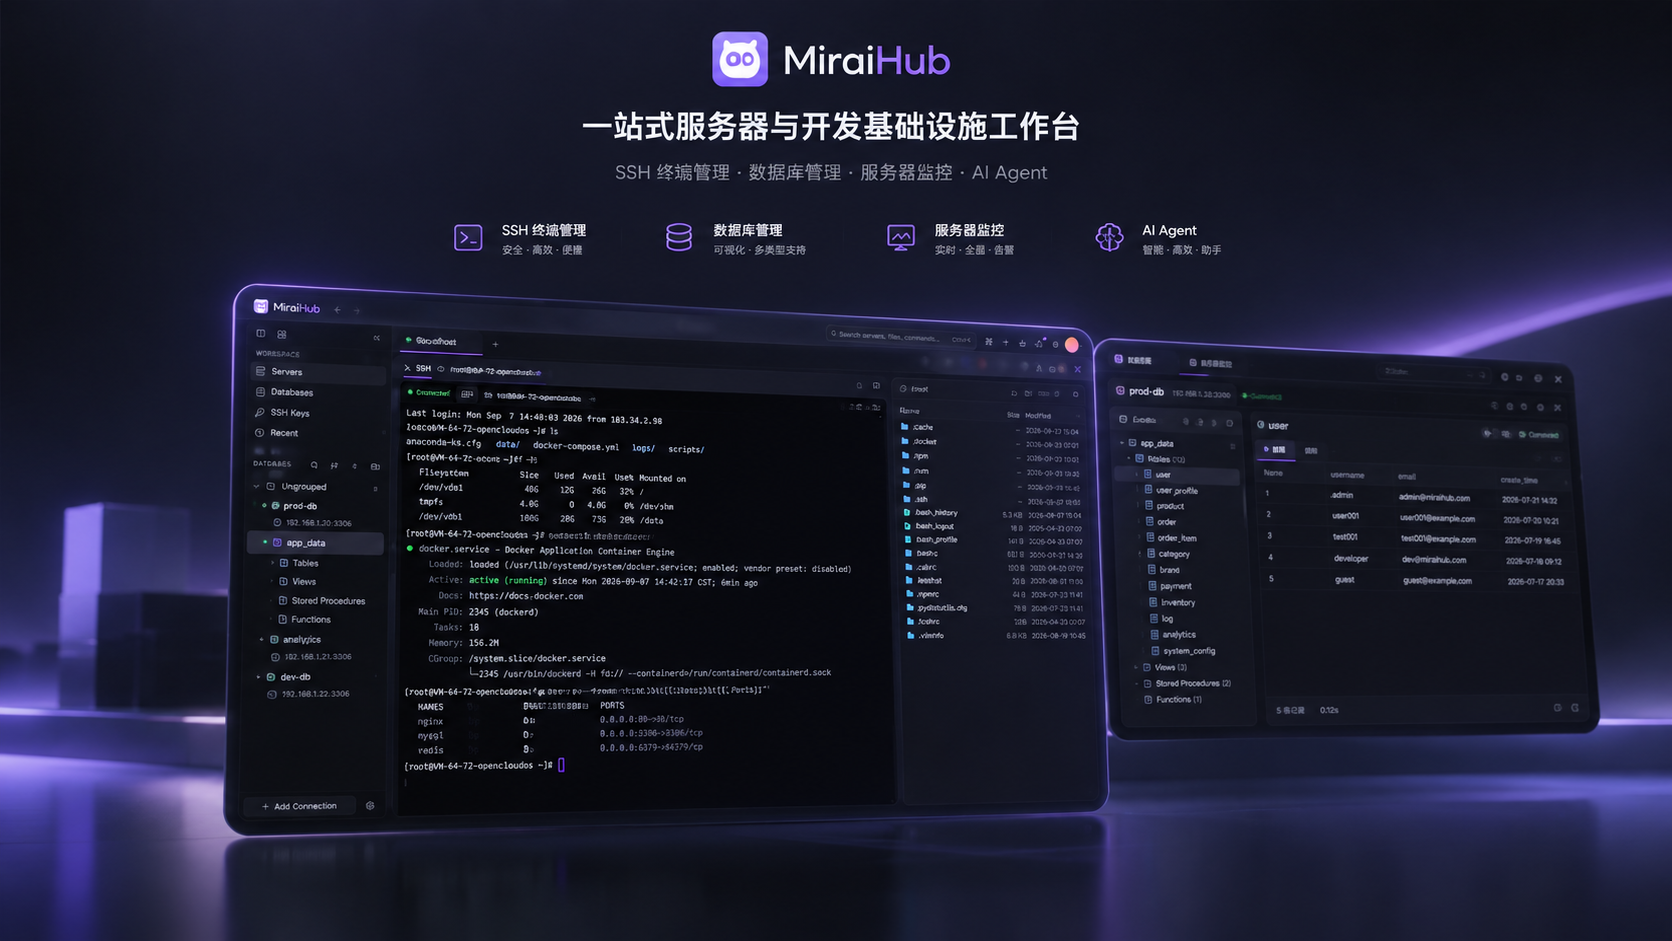
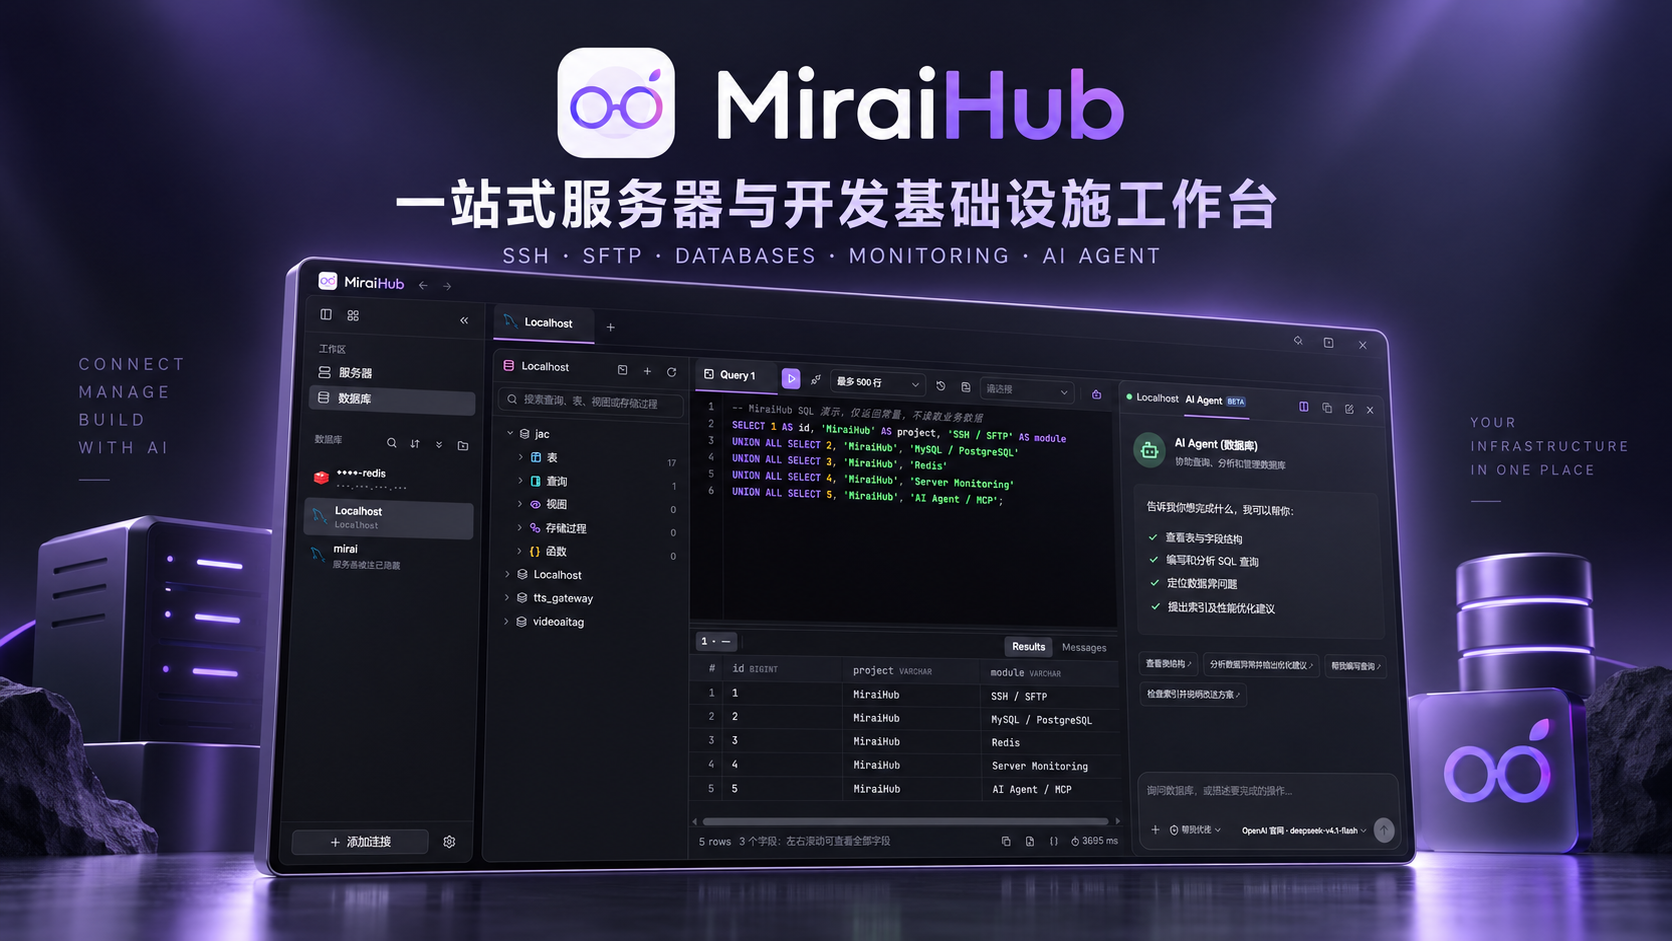
📝 docs: 补充文档内容与更新产品素材，新增Redis工作台文档
- 新增Redis工作台使用文档redis.md
- 更新SSH、AI Agent、主题皮肤的现有文档内容
- 补充中英文README的截图、快捷键、支持范围与常见问题
- 更新文档图片目录说明与产品宣传图配置文件

diff --git a/README.en.md b/README.en.md
@@ -26,6 +26,10 @@
 
 MiraiHub is a desktop workspace built with **Tauri 2 + Rust + Vue 3**. It brings server connections, file transfers, database operations, monitoring, and AI assistance into a single tabbed window for developers and server administrators.
 
+Manage development, test, and server environments in one place: inspect services over SSH, transfer and edit configuration files, query databases, and ask AI Agent to help analyze the current connection.
+
+> The image above is an AI-generated product visual. The Screenshots section below uses captures from the running Windows desktop app. Features and controls may vary by version.
+
 ## Features
 
 | | Feature | Description |
@@ -34,34 +38,52 @@ MiraiHub is a desktop workspace built with **Tauri 2 + Rust + Vue 3**. It brings
 | 📁 | **Remote files** | Browse, create files and folders, drag-and-drop upload, and download over SFTP with a unified transfer center; edit and save remote text directly |
 | 🗄 | **Database workspace** | MySQL / PostgreSQL: object tree, data editing, table designer, SQL and import / export; Redis: key scanning, value previews and editing, TTL and command console |
 | 📈 | **Server monitoring** | CPU, memory, disk, network, and uptime collected over SSH, no agent to install on the server |
-| 🤖 | **AI Agent** | Chat inside SSH and database workspaces with model profiles, attachments, tool calling, and history; choose per-action approval, auto read-only, or full access |
+| 🤖 | **AI Agent** | Chat inside SSH, database, and Redis workspaces with model profiles, streamed replies, attachments, history, and context compression; choose per-action approval, auto read-only, or full access |
+| 🔌 | **MCP extensions** | Connect local stdio or remote Streamable HTTP servers, expose tools by connection type, and review tool arguments before approval |
 | 🛠 | **Server operations** | Local port forwarding, batch commands, SSH key management, connection groups and tags, encrypted backup and restore |
 | 🎨 | **Personalization** | Chinese / English with system detection, theme skins, custom colors and backgrounds, UI scaling, resizable split views |
 
 ## Screenshots
 
+**Database workspace with AI split view**: the running desktop app connected to a local MySQL server, with the SQL editor and real query results. The query returns demonstration constants only.
+
+![Database workspace with AI split view, captured from the desktop app](docs/images/database-workspace.png)
+
 <table>
   <tr>
     <td width="50%" align="center">
-      <img src="docs/images/ssh-workspace.png" alt="SSH terminal and remote files" /><br />
-      <sub><b>SSH terminal and remote files</b></sub>
+      <a href="docs/images/ssh-connection.png"><img src="docs/images/ssh-connection.png" alt="SSH connection settings in the desktop app" /></a><br />
+      <sub><b>SSH connection, authentication, and tags</b></sub>
     </td>
     <td width="50%" align="center">
-      <img src="docs/images/database-workspace.png" alt="Database workspace with AI Agent" /><br />
-      <sub><b>Database workspace with AI Agent</b></sub>
+      <a href="docs/images/redis-connection.png"><img src="docs/images/redis-connection.png" alt="Redis connection settings in the desktop app" /></a><br />
+      <sub><b>Redis connection and logical database selection</b></sub>
     </td>
   </tr>
   <tr>
     <td width="50%" align="center">
-      <img src="docs/images/server-monitoring.png" alt="Server monitoring" /><br />
-      <sub><b>Server monitoring</b></sub>
+      <a href="docs/images/ai-agent.png"><img src="docs/images/ai-agent.png" alt="AI model profiles and Responses settings in the desktop app" /></a><br />
+      <sub><b>AI model profiles and API formats</b></sub>
     </td>
     <td width="50%" align="center">
-      <img src="docs/images/skin.png" alt="Theme skins" /><br />
-      <sub><b>Theme skins and custom backgrounds</b></sub>
+      <a href="docs/images/skin.png"><img src="docs/images/skin.png" alt="Theme settings and the built-in preview in the desktop app" /></a><br />
+      <sub><b>Theme skins, backgrounds, and live preview</b></sub>
     </td>
   </tr>
 </table>
+
+These five captures come from the **v2.0.25 Windows desktop development build**. Connection forms show unsaved example addresses; windows inside theme cards are the app's built-in skin previews. Service addresses, project names, and local private key paths have been hidden. Click a gallery image to view its original size.
+
+<details>
+<summary><b>Earlier SSH file and server monitoring screenshots</b></summary>
+
+The repository's earlier desktop captures are kept below to illustrate these layouts. Existing SSH connections timed out or disconnected during this capture session, so these two images were not refreshed. Controls may differ from the current version.
+
+![Earlier SSH terminal and remote file screenshot](docs/images/ssh-workspace.png)
+
+![Earlier server monitoring screenshot](docs/images/server-monitoring.png)
+
+</details>
 
 ## Download & install
 
@@ -82,13 +104,69 @@ Grab the latest build from [Releases](https://github.com/XiangZi7/MiraiHub/relea
 3. **Configure AI (optional)**: In **Settings → AI Agent**, add a service URL, API format, model ID, and API key, then save and test.
 4. **Work with the agent**: Open the AI Agent tab or split view in a workspace. Review any proposed command or SQL before confirming.
 
-AI features require your own model service with tool-calling support. Presets for OpenAI, Claude, DeepSeek, Doubao, Gemini, and custom endpoints are included, using the **OpenAI Chat Completions compatible** or **Claude Messages** format. See the [AI Agent guide](docs/ai-agent.md).
+AI features require your own model service with tool-calling support. Presets for OpenAI, Claude, DeepSeek, Doubao, Gemini, and custom endpoints are included. Supported formats are **OpenAI Chat Completions compatible**, **OpenAI Responses**, and **Claude Messages**; select the format your service implements. The Gemini preset uses its OpenAI-compatible endpoint. See the [AI Agent guide](docs/ai-agent.md).
+
+### Keyboard shortcuts
+
+| Action | Default shortcut |
+| --- | --- |
+| Command palette | `Ctrl+K` |
+| New local terminal | `Ctrl+T` |
+| Search | `Ctrl+Shift+F` |
+| Remote file panel | `Ctrl+O` |
+| Search terminal contents | `Ctrl+F` |
+| Run SQL / Redis command | `Ctrl+Enter` |
+| Enter / exit fullscreen | `F11` / `Esc` |
+
+Global shortcuts can be changed in **Settings → Shortcuts**. Terminal and query shortcuts apply within their workspace.
+
+## Supported scope
+
+| Module | Supported | Limits |
+| --- | --- | --- |
+| Desktop | Windows x64 | The release workflow builds Windows only; macOS / Linux builds are not published yet |
+| SSH | Passwords, private keys, SOCKS5 / HTTP CONNECT proxies, local port forwarding | Forwarding binds to local loopback; reverse and dynamic SOCKS forwarding are not available |
+| Relational databases | MySQL, PostgreSQL | SQL editing, table design, and SQL import / export apply to these engines |
+| Redis | Single node, logical DB switching, SCAN, previews for six common data types | No Cluster routing or Sentinel discovery; String editing requires Redis 6.0+ and suitable permissions |
+| Server monitoring | System and resource metrics over SSH | Requires permission to run the relevant system commands; no monitoring agent installation |
+| AI Agent | Three API formats, tool calling, MCP extensions | Bring your own model service with support for the selected format and tool calling |
 
 ## Privacy & security
 
-- **Model requests**: Conversations and tool results are only sent to the model service you configure.
+- **Model requests**: Conversations, attachments you add, and tool results are sent to the model service you configure. SSH passwords, private keys, and terminal buffers are not read automatically.
 - **Local storage**: On Windows, AI settings and chat history are encrypted with DPAPI for the current user. Connection settings, plus any passwords or key passphrases you choose to save, live in local WebView storage.
 - **Connection backups**: Credentials are excluded by default; including them requires a separate backup password.
+- **Action approval**: AI actions follow the selected permission mode. External MCP tools require individual confirmation in both per-action and auto read-only modes. Stopping a task does not roll back completed operations.
+
+## FAQ
+
+<details>
+<summary><b>The portable build will not open, or reports a WebView2 error.</b></summary>
+
+Extract the entire ZIP before running `miraihub.exe` and keep the bundled resource folders. Ensure WebView2 Runtime is installed. The installer is configured to install the runtime if it is missing.
+
+</details>
+
+<details>
+<summary><b>Why do SSH, databases, or AI fail when I only run <code>pnpm dev</code>?</b></summary>
+
+`pnpm dev` starts the browser frontend. Native features are provided by the Rust backend; use `pnpm tauri dev` to start the complete desktop application.
+
+</details>
+
+<details>
+<summary><b>My model service works in another client but reports a protocol error here.</b></summary>
+
+Check the base URL, model ID, API key, and API format. Select **OpenAI · Responses** for services using `/responses`, or Messages for native Claude endpoints. The model must support tool calling. The app does not switch formats automatically; see [AI Agent](docs/ai-agent.md).
+
+</details>
+
+<details>
+<summary><b>How do I move connections to another computer?</b></summary>
+
+Export in **Settings → Backup & restore**, then read the backup and review its restore plan on the new computer. Set a separate backup password to include credentials. Private key files, AI settings, and chat history are not included. See [SSH operations](docs/ssh-operations.md#连接备份).
+
+</details>
 
 ## Development
 
@@ -123,6 +201,7 @@ The guides below are written in Simplified Chinese unless noted.
 | Guide | Topics |
 | --- | --- |
 | [AI Agent](docs/ai-agent.md) | Model configuration, chat history, action confirmation, data handling |
+| [Redis workspace](docs/redis.md) | Connections, key previews, TTL, command console, AI tools |
 | [SSH operations](docs/ssh-operations.md) | Port forwarding, remote editing, batch commands, connection backups |
 | [Theme skins](docs/theme-skins.md) | Themes, custom backgrounds, colors, split layouts |
 | [Interface languages](docs/languages.md) | Chinese / English switching and system language detection |

diff --git a/docs/images/README.md b/docs/images/README.md
@@ -1,31 +1,41 @@
 # README 图片维护 / README image maintenance
 
-## 简体中文
+中英文 README 共用本目录的图片。产品宣传图与实机截图分别维护，避免将 AI 图、皮肤预览或未连接的界面误标为真实运行结果。
 
-两份 README 共用本目录的图片，文件名固定，替换时直接覆盖同名文件即可，无需改动 README。
+## 当前素材
 
-| 文件 | 展示位置 | 建议 |
+2026-10-08 更新：使用 v2.0.25 源码启动 Windows Tauri 桌面开发版，通过实际应用的 WebView2 采集界面；没有使用 mock IPC 页面代替工作区。截图时临时统一视口与界面缩放，保存后恢复缩放。表单示例未保存，皮肤只做预览后取消。
+
+| 文件 | 类型与展示内容 | 说明 |
 | --- | --- | --- |
-| `overview.png` | 顶部产品展示图 | 16:9，宽度 ≥ 1600 px |
-| `ssh-workspace.png` | SSH 终端与远端文件 | 16:10，宽度 ≥ 1440 px |
-| `database-workspace.png` | 数据库工作台与 AI Agent | 同上 |
-| `server-monitoring.png` | 服务器监控 | 同上 |
-| `skin.png` | 主题皮肤与自定义背景 | 同上 |
-| `ai-agent.png` | 备用，当前 README 未引用 | 竖版面板截图 |
+| `overview.png` | AI 产品宣传图 | 使用内置 ImageGen 生成，参考当前数据库实机截图及现有眼镜 Logo；不作为功能验证截图 |
+| `database-workspace.png` | 当前版实机截图 | 本机 MySQL 实际连接、SQL 编辑器、真实查询结果与 AI 分屏；SQL 只返回示例常量，不读取业务记录 |
+| `ssh-connection.png` | 当前版实机截图 | SSH 连接配置窗口；`server.example.com` 为未保存的示例，私钥路径已隐藏 |
+| `redis-connection.png` | 当前版实机截图 | Redis 连接配置窗口；`127.0.0.1:6379` 与 DB 0 为未保存的配置示例，不表示 Redis 已连接 |
+| `ai-agent.png` | 当前版实机截图 | AI 多配置与 Responses 设置；自定义服务地址已隐藏，未发送模型请求 |
+| `skin.png` | 当前版实机截图 | Kuriyama Mirai 主题设置；卡片和窗口内含应用自带的皮肤预览，并非实时数据库会话 |
+| `ssh-workspace.png` | 历史实机截图 | 仓库原有 SSH 终端与文件图，本次未更新；仅在历史截图折叠区展示 |
+| `server-monitoring.png` | 历史实机截图 | 仓库原有监控图，本次未更新；仅在历史截图折叠区展示 |
 
-截图前请隐藏或打码服务器地址、账号等敏感信息。如需新增图片位，两份 README 需同步修改。
+本次已有 SSH 连接出现超时或断开，未采集到新的已连接终端、SFTP 文件列表或监控指标。后续有可用连接时，再用新实机截图覆盖历史图片，并同步更新两份 README 与本说明。
+
+AI 产品图的最终生成规格保存在 [product-visual-prompt.txt](product-visual-prompt.txt)。参考文件为 `database-workspace.png` 与 `../../public/logo-app-icon.png`，使用内置工具，无需 CLI / API Key。
+
+## 替换与校验
+
+1. 启动完整桌面版 `pnpm tauri dev`；浏览器前端不提供 SSH、数据库等原生能力。
+2. 用测试环境或只读查询准备画面。配置窗口可以填写未保存的示例值；图注需说明它们是配置示例。
+3. 隐藏主机地址、内部项目名、API 服务地址、私钥路径、凭据与业务数据。只改变展示内容，不改写保存的连接或设置；不要用 AI 重绘功能截图。
+4. 建议工作区使用 1600 × 1000，设置页 1280 × 960，连接表单 1000 × 800，产品宣传图使用至少 1600 px 宽的 16:9 PNG。保持完整窗口与底部操作区可见。
+5. 覆盖对应文件，检查文字、主题图片、查询结果和边缘是否清晰，确认无加载状态或错误弹窗。
+6. 新增或改变展示位置时，同步 `../../README.md`、`../../README.en.md` 及相关功能文档，核对图片链接。
 
 ## English
 
-Both READMEs share the images in this directory. File names are fixed, so overwrite the file with the same name and no README change is needed.
+Both READMEs share these images. Five captures were refreshed on **2026-10-08** from the **v2.0.25 Windows Tauri development app**, using its real WebView2 renderer. The database image uses a live local MySQL connection with a constants-only query. SSH and Redis forms are unsaved examples; the theme screen contains the app's built-in preview. Addresses and private key paths have been hidden.
 
-| File | Slot | Suggested |
-| --- | --- | --- |
-| `overview.png` | Hero image | 16:9, width ≥ 1600 px |
-| `ssh-workspace.png` | SSH terminal and remote files | 16:10, width ≥ 1440 px |
-| `database-workspace.png` | Database workspace with AI Agent | same |
-| `server-monitoring.png` | Server monitoring | same |
-| `skin.png` | Theme skins and custom backgrounds | same |
-| `ai-agent.png` | Spare, not referenced by the READMEs today | Portrait panel screenshot |
+`overview.png` is an **AI-generated promotional visual**, created with the built-in ImageGen tool from the current database screenshot and existing eyeglasses logo. The final specification is saved in [product-visual-prompt.txt](product-visual-prompt.txt).
 
-Hide or blur server addresses, accounts, and other sensitive data before capturing. When adding a new slot, update both READMEs.
+`ssh-workspace.png` and `server-monitoring.png` remain **earlier desktop screenshots**. Existing SSH connections timed out or disconnected during this session, so no new connected SSH / SFTP / monitoring captures were produced. Do not present these images as current-version captures.
+
+For replacements, start the complete desktop app, use test environments or read-only queries, conceal private data, retain the full window and footer, and check every image visually. Update both READMEs and the relevant guides when adding or changing a slot. Never redraw functional screenshots with AI.

diff --git a/docs/ai-agent.md b/docs/ai-agent.md
@@ -1,5 +1,26 @@
 # AI Agent
 
+AI Agent 可以在 SSH、MySQL / PostgreSQL 和 Redis 工作区中使用。模型配置由各工作区共用，对话与工具操作绑定当前连接；切换目标不会把待审批操作带到另一台服务器或另一个数据库。
+
+## 界面与快速配置
+
+![MiraiHub 桌面版 AI Agent 设置](images/ai-agent.png)
+
+1. 打开「设置 → AI Agent」，选择服务模板或新增自定义配置。
+2. 填写名称、基础地址、模型 ID 与 API Key，并选择服务支持的 API 格式。
+3. 保存后测试连接，再到工作区的 AI 面板选择这份配置。
+4. 描述要完成的任务，核对工具调用卡片中的目标、命令或参数，再按当前审批方式处理。
+
+| API 格式 | 用于哪类接口 | 回复方式 |
+| --- | --- | --- |
+| OpenAI Chat Completions | `/chat/completions` 及兼容服务 | 流式；兼容返回完整 JSON 的中转站 |
+| OpenAI Responses | `/responses` | 流式，收到完整完成事件后才接受工具调用 |
+| Claude Messages | Claude 原生 `/messages` | 当前使用非流式请求 |
+
+同一服务可以保存多份配置。模板决定默认参数，并不代表应用附送 API Key、模型额度或付费订阅。
+
+## 流式响应与协议兼容
+
 OpenAI Chat Completions 兼容格式（包括 DeepSeek）和 OpenAI Responses 的对话请求使用流式响应，回复会逐步显示，并区分思考、生成回复和准备工具调用。连接最多等待 10 秒；连续 300 秒未收到任何数据或单次请求达到 30 分钟时超时。思考分片与心跳也计为连接活动。停止或切换会话会取消正在等待的模型请求。中转站若忽略流式参数并返回 JSON，仍可读取完整回复，但不能逐步显示。Claude 原生 Messages 暂沿用非流式请求。
 
 工具参数在流式响应完整结束并校验后才进入原有执行与审批流程；中途断开、输出长度超限或参数不完整时不执行本次工具调用。重试时清除上一次未完成的预览；最终失败或停止时保留当前请求已显示的部分回复，但不作为完整回复加入模型上下文。流式响应仍保留 DeepSeek 的 reasoning_content 供后续工具对话使用，界面仅显示思考状态。非流式模型响应最多 1 MB；流式传输最多 16 MB，其中累计增量数据最多 1 MB。

diff --git a/docs/ssh-operations.md b/docs/ssh-operations.md
@@ -1,11 +1,28 @@
 # SSH 运维功能
 
+## 界面预览
+
+![MiraiHub 桌面版 SSH 连接配置](images/ssh-connection.png)
+
+连接配置截图采集自 v2.0.25 桌面开发版，`server.example.com` 为未保存的示例地址，私钥路径已隐藏。
+
+<details>
+<summary>SSH 文件与服务器监控的历史界面</summary>
+
+以下保留仓库原有的较早版本实机截图。本次 SSH 连接未成功，未用模拟数据替代监控指标。
+
+![SSH 终端与远端文件历史截图](images/ssh-workspace.png)
+
+![服务器监控历史截图](images/server-monitoring.png)
+
+</details>
+
 ## 使用入口
 
 - 顶部连接标签栏右侧的网络图标：SSH 隧道 / 本地端口转发。
 - 旁边的多层图标：批量服务器操作。
 - SSH 的 Files 面板：双击普通文件或右键选择“编辑文本文件”。右键仍可下载并用外部程序打开。
-- 设置 → 连接备份：导出、读取预览、确认恢复。
+- 设置 → 备份与恢复：导出连接备份、读取预览、确认恢复。
 
 ## 终端复制与右键菜单
 
@@ -43,7 +60,7 @@
 
 ## 连接备份
 
-包含 SSH、本地终端、MySQL / PostgreSQL 连接及分组、标签，不包含 AI 配置、私钥文件、查询历史。默认剔除密码、私钥口令和 SSH 启动命令，后端对未加密备份再做一次清理。
+包含 SSH、本地终端、MySQL / PostgreSQL、Redis 连接及分组、标签，不包含 AI 配置、私钥文件、查询历史。默认剔除密码、私钥口令和启动命令，后端对未加密备份再做一次清理。
 
 包含凭据必须设置独立备份密码。密码经 Argon2id 派生密钥，使用 AES-256-GCM 和随机 salt / nonce 加密认证。未加密或加密数据均写入同目录临时文件，完整写入并同步后替换指定备份文件。备份不依赖当前电脑的 DPAPI，可跨电脑恢复；密钥路径与证书路径仍需在新电脑核对。
 

diff --git a/docs/theme-skins.md b/docs/theme-skins.md
@@ -1,5 +1,11 @@
 # 主题皮肤
 
+## 界面预览
+
+![MiraiHub 桌面版主题皮肤设置](images/skin.png)
+
+## 选择与自定义皮肤
+
 在「设置 → 主题皮肤」选择 Default Theme 或 Kuriyama Mirai。卡片下方可预览效果，主窗口也实时同步皮肤、背景参数和配色。点击保存才写入设置并同步其他窗口；取消、Esc、关闭设置窗口或离开设置页都会撤销临时预览，恢复已保存的皮肤。预览不会修改已保存的设置，重新打开时从上次保存的状态开始。
 
 点击「新增皮肤」创建独立卡片，可以命名、选择基础配色、上传背景、使用取色器调整颜色和删除。每张自定义卡片分别保存参数。主题列表支持横向滚动、鼠标滚轮及左右箭头；新建后自动滚动到该卡片。在内置主题上上传背景或启用自定义配色时，会创建独立副本，原来的两套内置主题仍然保留。

diff --git a/docs/redis.md b/docs/redis.md
@@ -1,5 +1,13 @@
 # Redis 工作台
 
+## 界面预览
+
+![MiraiHub 桌面版 Redis 连接配置](images/redis-connection.png)
+
+截图中的 `127.0.0.1:6379` 是未保存的配置示例；请填写自己的 Redis 地址、认证与 DB 索引。
+
+## 添加连接
+
 在「数据库 → 新建连接」中选择 Redis。默认端口为 `6379`，数据库索引默认为 `0`；用户名可留空，ACL 用户填写相应用户名。密码可按现有设置保存，也可在认证失败后临时输入。
 
 - TLS 可选择 `Disable` 或 `Verify Full`。启用 TLS 时验证服务端证书与主机名，支持自定义 CA 和客户端证书/私钥。
